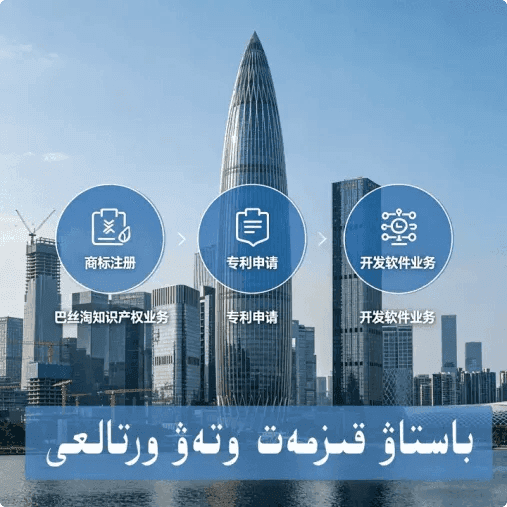
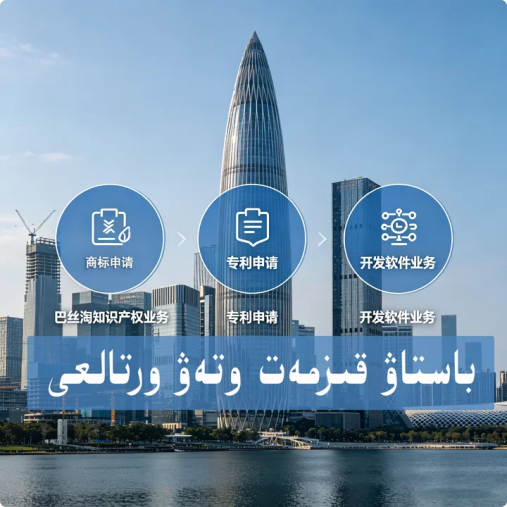
feat: 自定义tab-bar、分享功能及多页面优化

Changed region(s): [[0.0, 0.6509, 1.0, 0.9467], [0.1479, 0.503, 0.2663, 0.5325], [0.3846, 0.5621, 0.4142, 0.5917]]

diff --git a/custom-tab-bar/index.js b/custom-tab-bar/index.js
@@ -1,0 +1,66 @@
+const app = getApp()
+const { dict } = require('../i18n.js')
+
+Component({
+  data: {
+    tabs: [],
+    currentLang: '',
+    current: -1
+  },
+  lifetimes: {
+    attached() {
+      this.initTabs()
+    },
+    detached() {
+      if (this.timer) clearInterval(this.timer)
+    }
+  },
+  methods: {
+    initTabs() {
+      const lang = wx.getStorageSync('lang') || 'zh'
+      const t = dict[lang] || dict.zh
+      this.setData({
+        currentLang: lang,
+        tabs: [
+          { icon: '/images/tabbar/home.png', text: t.tabs[0], path: '/pages/index/index' },
+          { icon: '/images/tabbar/web.png', text: t.tabs[1], path: '/pages/webview/webview' },
+          { icon: '/images/tabbar/query.png', text: t.tabs[2], path: '/pages/query/query' },
+          { icon: '/images/tabbar/shop.png', text: t.tabs[3], path: '/pages/services/services' },
+          { icon: '/images/tabbar/consult.png', text: t.tabs[4], path: '/pages/consult/consult' }
+        ]
+      })
+      this.updateCurrent()
+      this.startWatcher()
+    },
+    updateCurrent() {
+      const pages = getCurrentPages()
+      const route = pages[pages.length - 1]?.route
+      const tabs = this.data.tabs
+      if (!route || !tabs.length) return
+      const idx = tabs.findIndex(t => t.path === '/' + route)
+      if (idx !== -1 && idx !== this.data.current) {
+        this.setData({ current: idx })
+      }
+    },
+    startWatcher() {
+      if (this.timer) return
+      this.timer = setInterval(() => {
+        const lang = wx.getStorageSync('lang') || 'zh'
+        if (lang !== this.data.currentLang) {
+          this.initTabs()
+        }
+        this.updateCurrent()
+      }, 1000)
+    },
+    onTap(e) {
+      const idx = e.currentTarget.dataset.index
+      if (idx === this.data.current) return
+      const path = this.data.tabs[idx].path
+      if (path === '/pages/webview/webview') {
+        wx.navigateTo({ url: path })
+      } else {
+        wx.switchTab({ url: path })
+      }
+    }
+  }
+})

diff --git a/pages/query/query.js b/pages/query/query.js
@@ -1,5 +1,7 @@
 const { applyLang, changeLang } = require('../../i18n.js')
+const share = require('../../utils/share.js')
 Page({
+  ...share,
   data:{ keyword:'', countryIndex:0, catIndex:0, country:'', category:'', lang:'zh', t:{}, rtl:false, loading:false },
   onLoad(){ applyLang(this); this.syncPickers() },
   onShow(){ applyLang(this); this.syncPickers(); const kw=wx.getStorageSync('pendingKeyword')||''; if(kw){ this.setData({keyword:kw}); wx.removeStorageSync('pendingKeyword') } },

diff --git a/app.js b/app.js
@@ -8,5 +8,18 @@ App({
     const adminPhone = wx.getStorageSync('adminPhone') || ''
     this.globalData.adminPhone = adminPhone
     this.globalData.isAdmin = !!adminPhone
+  },
+  onShareAppMessage() {
+    return {
+      title: '巴丝淘',
+      path: '/pages/index/index'
+    }
+  },
+  onShareTimeline() {
+    return {
+      title: '巴丝淘',
+      query: '',
+      imageUrl: ''
+    }
   }
 })

diff --git a/pages/result/result.js b/pages/result/result.js
@@ -1,5 +1,7 @@
 const { applyLang, changeLang } = require('../../i18n.js')
+const share = require('../../utils/share.js')
 Page({
+  ...share,
   data:{ keyword:'', status:'unknown', title:'', icon:'⚠', risk:'', advice:'', lang:'zh', t:{}, rtl:false },
   onLoad(q){ this._q=q||{}; this.applyResult() },
   onShow(){ this.applyResult() },

diff --git a/pages/consult/consult.js b/pages/consult/consult.js
@@ -1,5 +1,6 @@
 const { applyLang, changeLang } = require('../../i18n.js')
 const { LeadService } = require('../../services/supabase.js')
+const share = require('../../utils/share.js')
 
 const serviceToTypeMap = {
   0: 1, 1: 1,
@@ -10,6 +11,7 @@ const serviceToTypeMap = {
 }
 
 Page({
+  ...share,
   data: {
     name: '',
     phone: '',

diff --git a/utils/share.js b/utils/share.js
@@ -1,0 +1,15 @@
+module.exports = {
+  onShareAppMessage() {
+    return {
+      title: '巴丝淘',
+      path: '/pages/index/index'
+    }
+  },
+  onShareTimeline() {
+    return {
+      title: '巴丝淘',
+      query: '',
+      imageUrl: ''
+    }
+  }
+}

diff --git a/pages/index/index.js b/pages/index/index.js
@@ -1,6 +1,8 @@
 const { applyLang, changeLang, getLang } = require('../../i18n.js')
+const share = require('../../utils/share.js')
 
 Page({
+  ...share,
   data: {
     keyword: '',
     lang: 'zh',

diff --git a/pages/cart/cart.js b/pages/cart/cart.js
@@ -1,6 +1,8 @@
 const { applyLang, changeLang } = require('../../i18n.js')
+const share = require('../../utils/share.js')
 
 Page({
+  ...share,
   data: {
     lang: 'zh',
     t: {},

diff --git a/pages/orders/orders.js b/pages/orders/orders.js
@@ -1,6 +1,8 @@
 const { applyLang, changeLang } = require('../../i18n.js')
+const share = require('../../utils/share.js')
 
 Page({
+  ...share,
   data: {
     lang: 'zh',
     t: {},

diff --git a/pages/services/services.js b/pages/services/services.js
@@ -1,6 +1,8 @@
 const { applyLang, changeLang } = require('../../i18n.js')
+const share = require('../../utils/share.js')
 
 Page({
+  ...share,
   data: {
     lang: 'zh',
     t: {},

diff --git a/pages/order-confirm/order-confirm.js b/pages/order-confirm/order-confirm.js
@@ -1,6 +1,8 @@
 const { applyLang } = require('../../i18n.js')
+const share = require('../../utils/share.js')
 
 Page({
+  ...share,
   data: {
     lang: 'zh',
     t: {},

diff --git a/pages/pay-result/pay-result.js b/pages/pay-result/pay-result.js
@@ -1,6 +1,8 @@
 const { applyLang } = require('../../i18n.js')
+const share = require('../../utils/share.js')
 
 Page({
+  ...share,
   data: {
     lang: 'zh',
     t: {},
